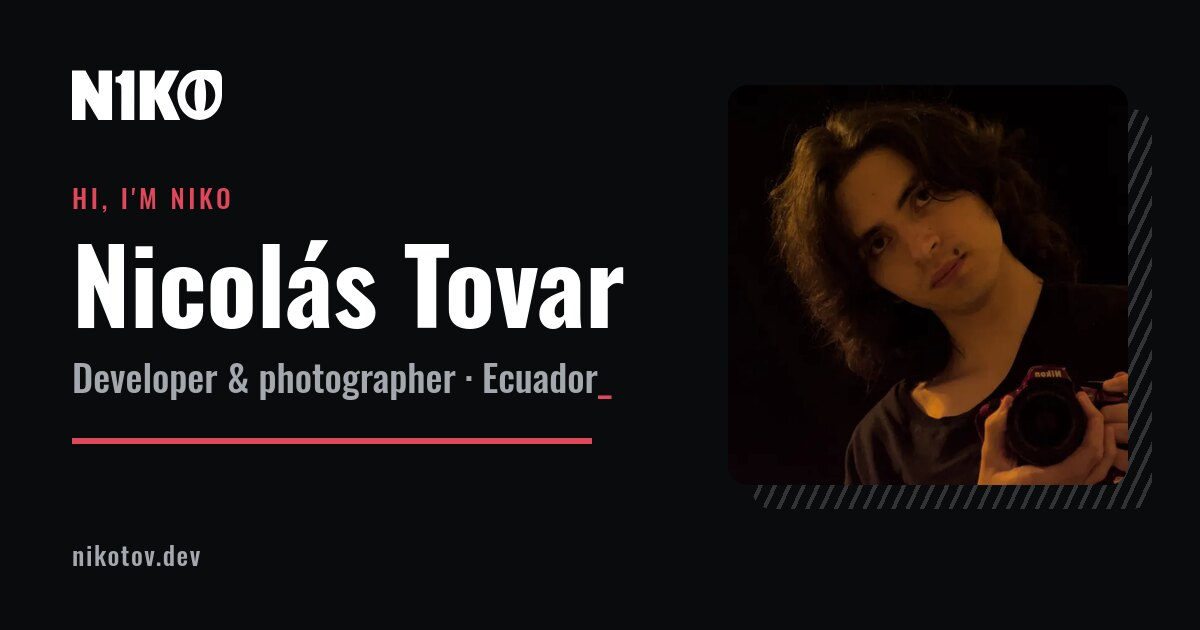
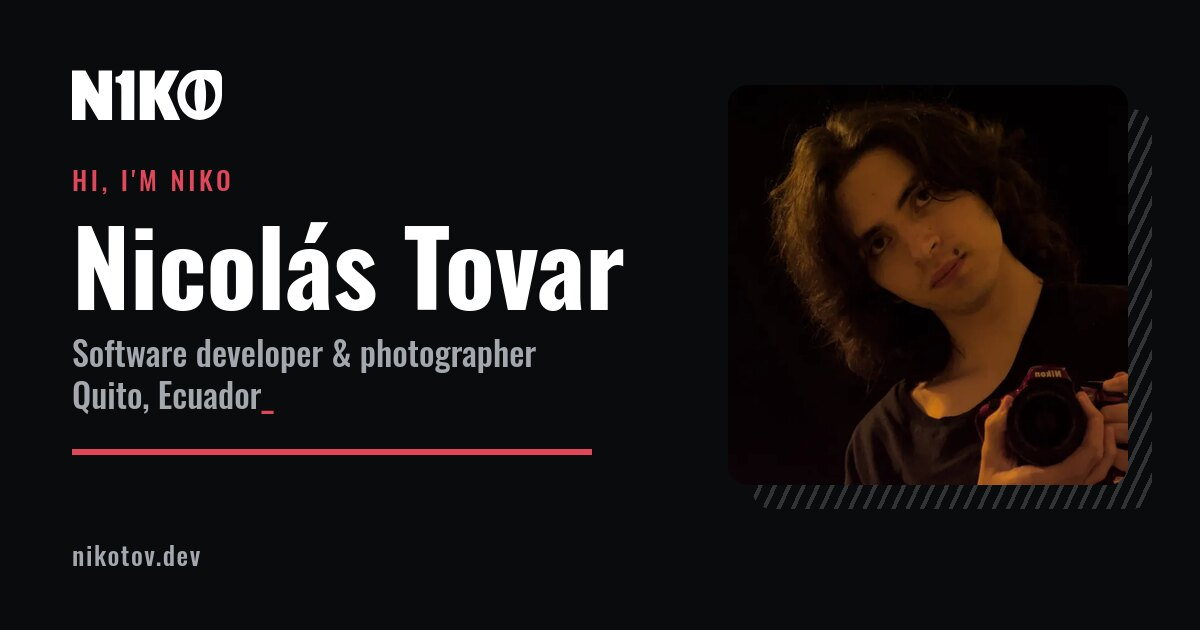
Personalize the About and home pages from the CV
Adds the USFQ Computer Science Engineering degree, the C1 Advanced and
barista certifications, the teaching assistant role and the Grupo
Mancheno internship to the About timeline; expands the skills list;
renames "Path" to "Experience"; and updates the location to Quito,
the role line, meta descriptions, Person JSON-LD (alumniOf,
knowsLanguage, locality) and the home share image. Also fixes list
numbers showing on the timeline.

Changed region(s): [[0.0617, 0.3317, 0.5242, 0.6635], [0.0617, 0.6937, 0.4933, 0.7238], [0.0617, 0.2714, 0.2158, 0.3317]]

diff --git a/aboutme.html b/aboutme.html
@@ -2,8 +2,8 @@
 title: About me
 nav_title: About
 description: >-
-  About Nicolás Tovar Cobos (Niko), a developer and photographer in Ecuador who
-  builds fast, clear and visually intentional products.
+  About Nicolás Tovar Cobos (Niko): computer science engineering student at USFQ,
+  teaching assistant and junior software developer in Quito, Ecuador.
 permalink: /about/
 redirect_from: /aboutme.html
 css: aboutme
@@ -27,14 +27,19 @@ signature_font: true
     <div class="about-body">
         <section class="about-section prose" aria-label="Introduction">
             <p class="about-intro">
-                I'm Nicolás Tovar Cobos, or Niko: a developer in {{ site.location }} who cares about
-                design, technology and telling stories through digital products.
+                I'm Nicolás Tovar Cobos, or Niko: a junior software developer and computer science
+                engineering student at Universidad San Francisco de Quito, in {{ site.location }}.
+            </p>
+            <p>
+                My experience spans data analysis, full-stack applications and digital marketing
+                campaigns. I like solving problems, picking up new tools and working in fast-moving
+                environments, and I'm most interested in software development, data analysis and
+                computer systems.
             </p>
             <p>
                 I like building projects that feel fast, clear and visually intentional, from the
-                first wireframe to the final deployment. My approach combines creativity with
-                structure: understand the user, plan the experience, then write maintainable code
-                that can grow over time.
+                first wireframe to the final deployment: understand the user, plan the experience,
+                then write maintainable code that can grow over time.
             </p>
             <p>
                 Photography keeps that eye sharp. Composition, light and color matter just as much
@@ -64,21 +69,19 @@ signature_font: true
         <section class="about-section" aria-labelledby="education-title">
             <h2 id="education-title">Education</h2>
             <p class="prose">
-                I've focused my education on software development, web technologies and practical
-                project execution. Along the way I've built strong foundations in frontend
-                architecture, responsive design, version control and collaborative workflows, and I
-                keep learning through hands-on projects, documentation and experimenting with new tools.
+                I'm studying Computer Science Engineering at USFQ, with strong foundations in data
+                structures, algorithms and software architecture, and I keep learning through
+                hands-on projects and new tools.
             </p>
             {% include timeline.html entries=site.data.timeline.education %}
         </section>
 
-        <section class="about-section" aria-labelledby="path-title">
-            <h2 id="path-title">Path</h2>
+        <section class="about-section" aria-labelledby="experience-title">
+            <h2 id="experience-title">Experience</h2>
             <p class="prose">
-                It started with curiosity about how websites work and grew into a commitment to
-                building meaningful digital experiences. Each project has sharpened my technical
-                skills, communication and attention to detail. Today I'm focused on growing as a
-                full-stack developer while building work that is useful, elegant and impactful.
+                Alongside my studies I've taught, worked in sales and marketing, and shipped my own
+                projects, like the Hack2Interact-winning <a href="{{ '/projects/#otter' | relative_url }}">Get Otter Here!</a>
+                and <a href="{{ '/projects/#clean-crm' | relative_url }}">Clean CRM</a>.
             </p>
             {% include timeline.html entries=site.data.timeline.path %}
         </section>

diff --git a/index.html b/index.html
@@ -1,7 +1,7 @@
 ---
 description: >-
-  Nicolás Tovar (Niko), developer and photographer in Ecuador: a Hack2Interact game jam
-  winner, open-source tools, and portrait and wildlife photography.
+  Nicolás Tovar (Niko), software developer, USFQ computer science student and photographer
+  in Quito, Ecuador: game jam winner, open-source tools and photography.
 css: home
 preload_image:
   src: /resources/img/niko-portrait-camera-640.webp
@@ -13,10 +13,11 @@ preload_image:
         <div class="hero__copy">
             <p class="eyebrow">Hi, I'm Niko</p>
             <h1>{{ site.author.name }}</h1>
-            <p class="hero__role">Developer &amp; photographer · {{ site.location }}<span class="cursor" aria-hidden="true">_</span></p>
+            <p class="hero__role">Software developer &amp; photographer · {{ site.location }}<span class="cursor" aria-hidden="true">_</span></p>
 
             <p class="hero__lede">
-                I build modern, user-friendly software, from a one-button game that won the
+                I'm a computer science engineering student at Universidad San Francisco de Quito
+                who builds modern, user-friendly software, from a one-button game that won the
                 Hack2Interact jam to an open-source CRM for WhatsApp campaigns. When I'm not
                 writing code, I'm usually behind a camera.
             </p>

diff --git a/_includes/schema.html b/_includes/schema.html
@@ -16,7 +16,9 @@
   "image": {{ '/resources/img/niko-portrait-camera-1200.webp' | absolute_url | jsonify }},
   "jobTitle": {{ site.author.job_title | jsonify }},
   "email": {{ 'mailto:' | append: site.email | jsonify }},
-  "address": { "@type": "PostalAddress", "addressCountry": "EC" },
+  "address": { "@type": "PostalAddress", "addressLocality": "Quito", "addressCountry": "EC" },
+  "alumniOf": { "@type": "CollegeOrUniversity", "name": {{ site.author.university.name | jsonify }}, "url": {{ site.author.university.url | jsonify }} },
+  "knowsLanguage": {{ site.author.languages | jsonify }},
   "knowsAbout": {{ site.author.knows_about | jsonify }},
   "sameAs": {{ site.social.links | jsonify }}
 }

diff --git a/css/base.css b/css/base.css
@@ -90,7 +90,8 @@ a {
     color: inherit;
 }
 
-ul[role="list"] {
+ul[role="list"],
+ol[role="list"] {
     list-style: none;
     margin: 0;
     padding: 0;
@@ -138,6 +139,15 @@ p {
 
 .prose {
     max-width: 65ch;
+}
+
+.prose a {
+    color: var(--accent);
+    text-underline-offset: 3px;
+}
+
+.prose a:hover {
+    color: #fff;
 }
 
 .muted {
